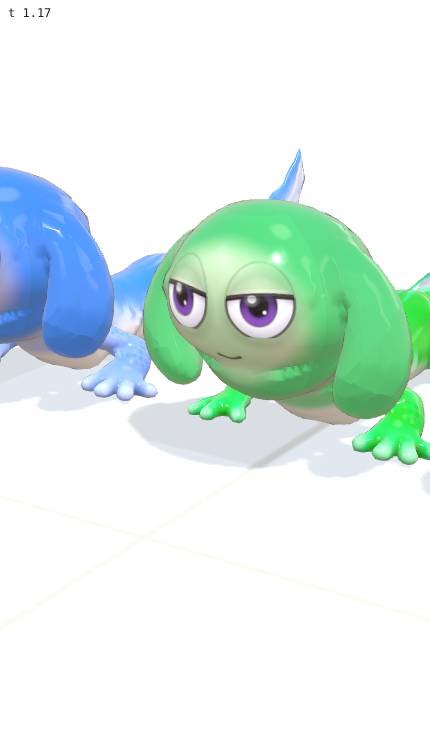
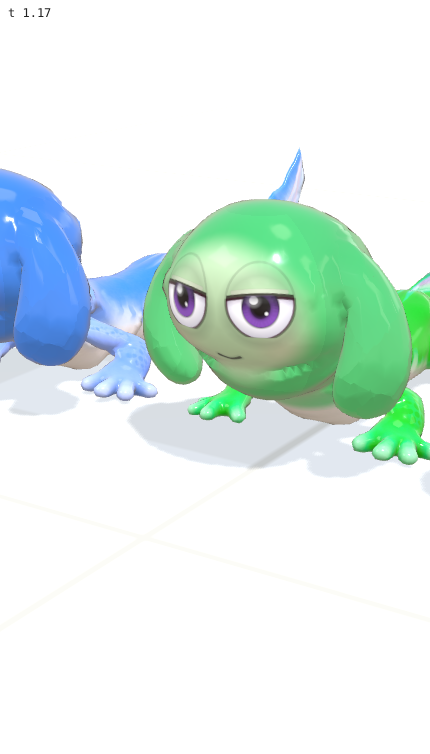
v241 work in progress: Strokes page, craft timer, lesson; the agent's neck, chest, toon and idle-eyes pass staged
Claude-Session: https://claude.ai/code/session_01MLbS6HungMVFLYm7rG9pFB

diff --git a/tools/ui178_patch.py b/tools/ui178_patch.py
@@ -1,0 +1,171 @@
+#!/usr/bin/env python3
+"""v241: Strokes. The Abilities tile opens the Strokes page once it's unlocked (rank 3): two slots, your Special Stroke (what the orb gives
+you: the Rocket, or the Giant once it's crafted) and your Skill (Swim faster). The Giant is free to craft at rank 3: a tap starts a
+20-minute craft, Skip ends it (an ad will, later). And Ol' Bloop's lesson on it: praise, then the slots, then the Giant crafted and
+equipped."""
+import subprocess, os
+S = '/tmp/claude-0/-home-user-rollmodel/5c52352e-692f-5301-ac55-ec4d2c708f3e/scratchpad'
+subprocess.run(['python3', '-I', S + '/tools/ui177_patch.py'], check=True, env=dict(os.environ))
+DST = '/home/claude/paint-the-canvas.html'
+s = open(DST).read(); n0 = len(s)
+def rep(old, new, count=1):
+    global s
+    c = s.count(old); assert c == count, f'expected {count}, found {c}: {old[:90]!r}'
+    s = s.replace(old, new)
+assert 'D.swimBoost > 1' in s, 'the swim boost is not in the adapter'
+# ---- the page's markup, after the events page
+CSS = r"""
+/* strokes: the dark page like the events, two paper slots, the equipped stroke big, the options in a rail; a craft bar with a countdown */
+.mstrokes .stwrap{position:absolute;left:0;right:0;top:calc(max(14px,env(safe-area-inset-top)) + 66px);bottom:0;z-index:1;display:grid;grid-template-columns:minmax(0,1fr);align-content:start;gap:18px;padding:4px max(18px,env(safe-area-inset-right)) calc(max(16px,env(safe-area-inset-bottom)) + 16px) max(18px,env(safe-area-inset-left));overflow-y:auto;overscroll-behavior:contain}
+.mstrokes .stsub{margin:-6px 0 0;font:700 13px/1.3 var(--font-ui);color:#B8B0C8}
+.stslot{position:relative;min-width:0;border-radius:16px;background:#F4EEE3;box-shadow:0 0 0 2.5px #171320,6px 7px 0 rgba(0,0,0,.4);animation:evin .45s cubic-bezier(.2,1.2,.35,1) both}
+.stslot:nth-child(3){animation-delay:.07s}
+.sthead{display:flex;align-items:baseline;justify-content:space-between;gap:10px;padding:10px 14px 9px;border-radius:14px 14px 0 0;background:#171320;color:#fff}
+.sthead b{font:900 17px/1 var(--font-head);font-style:italic;text-transform:uppercase;letter-spacing:.04em;color:var(--gold);text-shadow:.05em .05em 0 rgba(0,0,0,.6)}
+.sthead small{font:700 11px/1.2 var(--font-ui);color:#B8B0C8;text-align:right}
+.stnow{display:grid;grid-template-columns:72px minmax(0,1fr);gap:12px;align-items:center;padding:14px 14px 10px}
+.stnow .stic{width:72px;height:72px;display:grid;place-items:center;border-radius:18px;background:#fff;box-shadow:0 0 0 2.5px #171320,3px 3px 0 rgba(23,19,32,.25)}
+.stnow .stic svg{width:52px;height:52px}
+.stnow .stname{display:block;font:900 24px/1 var(--font-head);color:#171320;text-transform:uppercase;letter-spacing:.01em}
+.stnow .stdesc{display:block;margin-top:4px;font:600 13px/1.3 var(--font-ui);color:#4A4458}
+.stnow .ststamp{display:inline-block;margin-top:7px;padding:3px 8px 2px;border-radius:999px;background:var(--gold);color:#171320;font:900 10px/1 var(--font-head);letter-spacing:.1em;box-shadow:0 0 0 2px #171320}
+.strail{display:flex;gap:10px;padding:4px 14px 14px;overflow-x:auto;scrollbar-width:none}
+.strail::-webkit-scrollbar{display:none}
+.stopt{appearance:none;position:relative;flex:0 0 auto;display:grid;grid-template-rows:auto auto auto;justify-items:center;gap:5px;width:104px;margin:0;padding:10px 8px 9px;border:0;border-radius:14px;background:#fff;color:#171320;box-shadow:0 0 0 2.5px #171320,3px 3px 0 rgba(23,19,32,.25);cursor:pointer;font:inherit;-webkit-tap-highlight-color:transparent;transition:transform .14s cubic-bezier(.3,1.6,.5,1)}
+.stopt:active{transform:translate(1px,2px)}
+.stopt svg{width:38px;height:38px}
+.stopt .stn{font:900 13px/1 var(--font-head);text-transform:uppercase}
+.stopt .sts{display:flex;align-items:center;gap:3px;padding:3px 7px 2px;border-radius:999px;font:900 9px/1 var(--font-head);letter-spacing:.08em;background:#E9E3D6;color:#4A4458}
+.stopt .sts svg{width:9px;height:9px}
+.stopt.on{box-shadow:0 0 0 3px var(--gold),0 0 0 5.5px #171320,3px 3px 0 rgba(23,19,32,.25)}
+.stopt.on .sts{background:var(--gold);color:#171320}
+.stopt.lock svg:not(.sts svg){opacity:.45;filter:grayscale(1)}
+.stopt.lock .stn{color:#8A8396}
+.stopt.free .sts{background:#46E07A;color:#0B2A14}
+.stopt.ready .sts{background:#E3122F;color:#fff}
+.stopt.soon{background:repeating-linear-gradient(135deg,#F4EEE3 0 8px,#ECE5D8 8px 16px);box-shadow:0 0 0 2.5px rgba(23,19,32,.35);cursor:default;color:#8A8396}
+.stopt.soon .stn{color:#8A8396}
+.stcraft{display:grid;grid-template-columns:minmax(0,1fr) auto;gap:10px;align-items:center;margin:0 14px 14px;padding:10px 12px;border-radius:12px;background:#171320;color:#fff}
+.stcraft .stct{font:800 12px/1.2 var(--font-ui);color:#B8B0C8}
+.stcraft .stct b{display:block;font:900 22px/1 var(--font-head);color:#fff;font-variant-numeric:tabular-nums;letter-spacing:.02em}
+.stcraft .stbar{grid-column:1/-1;height:8px;border-radius:999px;background:#2A2436;overflow:hidden}
+.stcraft .stbar i{display:block;height:100%;width:var(--p,0%);background:linear-gradient(90deg,#F2C14E,#FFE39A);border-radius:999px;transition:width .5s linear}
+.stcraft .stskip{appearance:none;margin:0;padding:10px 16px;border:0;border-radius:999px;background:var(--gold);color:#171320;font:900 14px/1 var(--font-head);letter-spacing:.08em;text-transform:uppercase;box-shadow:0 0 0 2px #171320,0 3px 0 #171320;cursor:pointer;-webkit-tap-highlight-color:transparent}
+.stcraft .stskip:active{transform:translateY(2px);box-shadow:0 0 0 2px #171320,0 1px 0 #171320}
+.mstrokes .sttoast{position:absolute;left:50%;bottom:calc(max(16px,env(safe-area-inset-bottom)) + 18px);z-index:3;transform:translateX(-50%);padding:9px 14px;border-radius:999px;background:#171320;color:#fff;font:800 13px/1 var(--font-ui);box-shadow:0 0 0 2px var(--gold);white-space:nowrap;animation:sttoast 2.2s ease both;pointer-events:none}
+@keyframes sttoast{0%{opacity:0;transform:translate(-50%,10px)}12%,80%{opacity:1;transform:translate(-50%,0)}100%{opacity:0}}
+.plate.abil:not(.locked).fresh .abtag{animation:abpulse 1.4s ease-in-out infinite}
+@keyframes abpulse{50%{transform:translateX(-50%) rotate(4deg) scale(1.15)}}
+"""
+rep("/* abilities: violet construction paper, cut by hand,", CSS + "/* abilities: violet construction paper, cut by hand,")
+ROCKET = '<svg viewBox="0 0 64 64" aria-hidden="true"><path d="M32 4c9 6 14 18 14 32v6H18v-6C18 22 23 10 32 4z" fill="#F4EEE3" stroke="#171320" stroke-width="3.2" stroke-linejoin="round"/><path d="M18 30l-9 10 9 4zM46 30l9 10-9 4z" fill="#E3122F" stroke="#171320" stroke-width="3.2" stroke-linejoin="round"/><circle cx="32" cy="26" r="6" fill="#7CC8FF" stroke="#171320" stroke-width="3.2"/><path d="M25 44h14l-7 16z" fill="#F2C14E" stroke="#171320" stroke-width="3.2" stroke-linejoin="round"/></svg>'
+GIANT = '<svg viewBox="0 0 64 64" aria-hidden="true"><circle cx="34" cy="30" r="24" fill="#E3122F" stroke="#171320" stroke-width="3.2"/><circle cx="26" cy="27" r="4.2" fill="#fff" stroke="#171320" stroke-width="2.4"/><circle cx="42" cy="27" r="4.2" fill="#fff" stroke="#171320" stroke-width="2.4"/><circle cx="27" cy="28" r="1.8" fill="#171320"/><circle cx="43" cy="28" r="1.8" fill="#171320"/><path d="M27 38q7 5 14 0" fill="none" stroke="#171320" stroke-width="2.6" stroke-linecap="round"/><circle cx="9" cy="54" r="6" fill="#F2C14E" stroke="#171320" stroke-width="2.6"/><path d="M14 46l6-4M12 60l6 2" fill="none" stroke="#171320" stroke-width="2.4" stroke-linecap="round"/></svg>'
+SWIM = '<svg viewBox="0 0 64 64" aria-hidden="true"><path d="M6 40c6-6 12-6 18 0s12 6 18 0 12-6 18 0" fill="none" stroke="#7CC8FF" stroke-width="5" stroke-linecap="round"/><path d="M6 52c6-6 12-6 18 0s12 6 18 0 12-6 18 0" fill="none" stroke="#7CC8FF" stroke-width="5" stroke-linecap="round"/><path d="M12 22h26M30 12l12 10-12 10" fill="none" stroke="#171320" stroke-width="5" stroke-linecap="round" stroke-linejoin="round"/></svg>'
+LOCK = '<svg viewBox="0 0 24 24" aria-hidden="true"><path d="M7.5 10.5V7.8a4.5 4.5 0 0 1 9 0v2.7" fill="none" stroke="currentColor" stroke-width="3"/><rect x="4.5" y="10" width="15" height="12" rx="2.6" fill="currentColor"/></svg>'
+HTML = """
+    <div class="mevents mstrokes" id="mStrokes" hidden><div class="evwash" aria-hidden="true"><i></i></div>
+      <div class="evhead"><button class="sback" id="stBack" type="button" aria-label="Back to the lobby"><svg viewBox="0 0 24 24" aria-hidden="true"><path d="M15 4.5 7.5 12l7.5 7.5" fill="none" stroke="#fff" stroke-width="3.6" stroke-linecap="round" stroke-linejoin="round"/></svg></button><h2 id="stTitle">Strokes</h2></div>
+      <div class="stwrap" id="stWrap"><p class="stsub">Your special move and your skill. New ones open as you rank up.</p>
+        <section class="stslot" id="stSpecial" aria-labelledby="stSpecialH"><div class="sthead"><b id="stSpecialH">Special stroke</b><small>What the orb gives you</small></div><div class="stnow" id="stSpecialNow"></div><div class="strail" id="stSpecialRail" role="group" aria-label="Special strokes"></div><div class="stcraft" id="stCraft" hidden><span class="stct">Crafting the Giant<b id="stCraftT">20:00</b></span><button class="stskip" id="stSkip" type="button">Skip</button><span class="stbar"><i id="stCraftBar"></i></span></div></section>
+        <section class="stslot" id="stSkill" aria-labelledby="stSkillH"><div class="sthead"><b id="stSkillH">Skill</b><small>Always on</small></div><div class="stnow" id="stSkillNow"></div><div class="strail" id="stSkillRail" role="group" aria-label="Skills"></div></section>
+      </div>
+    </div>
+"""
+rep('    <div class="mevents" id="mEvents" hidden>', HTML + '    <div class="mevents" id="mEvents" hidden>')
+# ---- the data, the page, the craft, the lesson
+JS = r"""
+// ---------- strokes: your special stroke (what the orb gives you) and your skill; the Giant crafted free at rank 3 ----------
+const STROKE_ICON = { rocket: @ROCKET@, giant: @GIANT@, swim: @SWIM@ };
+const SPECIALS = [{ id: 'rocket', name: 'Rocket', desc: 'Blast up over the canvas, then dive down in a splash.' }, { id: 'giant', name: 'Giant', desc: 'Grow huge, paint wide, stomp rivals flat.', craft: 20 }];
+const SKILLS = [{ id: 'swim', name: 'Swim faster', desc: 'A touch more pace every time you glide.' }];
+const SWIM_BOOST = 1.08, STROKE_LOCK = @LOCK@;
+function strokesOf() { const d = store.strokes || (store.strokes = {}); if (!d.special) d.special = 'rocket'; if (!d.skill) d.skill = 'swim'; if (!Array.isArray(d.own)) d.own = ['rocket', 'swim']; for (const k of ['rocket', 'swim']) if (!d.own.includes(k)) d.own.push(k); return d; }
+const strokeOwned = id => strokesOf().own.includes(id), strokeSpecial = () => { const d = strokesOf(); return strokeOwned(d.special) ? d.special : 'rocket'; }, strokeSkill = () => strokesOf().skill;
+const strokesOpen = () => menuPage === 'strokes', strokesDue = () => repOf(store.xp || 0).lv >= ABIL_RANK; // (the page opens at rank 3)
+let stTick = 0, stToastT = 0;
+function craftLeft() { const c = strokesOf().craft; return c ? Math.max(0, c.end - Date.now()) : 0; }
+function craftTick() { const d = strokesOf(), c = d.craft; if (!c) return false; if (craftLeft() > 0) return true; d.craft = null; if (!d.own.includes(c.id)) d.own.push(c.id); d.fresh = c.id; save(); AU.fanfare && AU.fanfare(); return false; }
+function craftStart(id) { const d = strokesOf(), sp = SPECIALS.find(x => x.id === id); if (!sp || d.craft || d.own.includes(id)) return; d.craft = { id, end: Date.now() + sp.craft * 60000 }; save(); AU.pop(); buzz(10); renderStrokes(); }
+function craftSkip() { const d = strokesOf(); if (!d.craft) return; d.craft.end = Date.now(); craftTick(); AU.ui(); buzz([10, 30, 10]); renderStrokes(); stToast('The Giant is ready!'); }
+function equipSpecial(id) { const d = strokesOf(); if (!d.own.includes(id) || d.special === id) return; d.special = id; if (d.fresh === id) d.fresh = null; save(); AU.ready && AU.ready(); buzz(8); renderStrokes(); stToast(SPECIALS.find(x => x.id === id).name + ' is your special stroke'); }
+function stToast(msg) { const w = $('mStrokes'), old = w.querySelector('.sttoast'); if (old) old.remove(); const t = document.createElement('span'); t.className = 'sttoast'; t.setAttribute('role', 'status'); t.textContent = msg; w.appendChild(t); clearTimeout(stToastT); stToastT = setTimeout(() => t.remove(), 2300); }
+const mmss = ms => { const t = Math.ceil(ms / 1000), m = Math.floor(t / 60), sc = t % 60; return m + ':' + (sc < 10 ? '0' : '') + sc; };
+function renderStrokes() {
+  const d = strokesOf(); craftTick();
+  const now = (id, list, el) => { const o = list.find(x => x.id === id) || list[0]; el.innerHTML = '<span class="stic">' + STROKE_ICON[o.id] + '</span><span><span class="stname">' + o.name + '</span><span class="stdesc">' + o.desc + '</span><span class="ststamp">Equipped</span></span>'; };
+  now(strokeSpecial(), SPECIALS, $('stSpecialNow')); now(strokeSkill(), SKILLS, $('stSkillNow'));
+  const crafting = d.craft, left = craftLeft();
+  $('stSpecialRail').innerHTML = SPECIALS.map(o => { const own = d.own.includes(o.id), on = own && strokeSpecial() === o.id, cr = crafting && crafting.id === o.id, free = !own && !cr && strokesDue(), ready = own && !on && d.fresh === o.id;
+    const st = on ? 'Equipped' : cr ? 'Crafting' : ready ? 'Ready!' : own ? 'Tap to equip' : free ? 'Free to craft' : STROKE_LOCK + 'Rank ' + ABIL_RANK;
+    return '<button class="stopt' + (on ? ' on' : '') + (cr ? ' crafting' : '') + (ready ? ' ready' : '') + (free ? ' free' : '') + (!own && !cr && !free ? ' lock' : '') + '" type="button" data-st="' + o.id + '" aria-pressed="' + on + '" aria-label="' + escAttr(o.name + ', ' + st) + '">' + STROKE_ICON[o.id] + '<span class="stn">' + o.name + '</span><span class="sts">' + st + '</span></button>'; }).join('')
+    + '<span class="stopt soon" aria-hidden="true"><svg viewBox="0 0 64 64"><circle cx="32" cy="32" r="20" fill="none" stroke="#8A8396" stroke-width="4" stroke-dasharray="7 7"/></svg><span class="stn">More soon</span><span class="sts">Rank up</span></span>';
+  $('stSkillRail').innerHTML = SKILLS.map(o => '<button class="stopt on" type="button" data-sk="' + o.id + '" aria-pressed="true" aria-label="' + escAttr(o.name + ', equipped') + '">' + STROKE_ICON[o.id] + '<span class="stn">' + o.name + '</span><span class="sts">Equipped</span></button>').join('')
+    + '<span class="stopt soon" aria-hidden="true"><svg viewBox="0 0 64 64"><circle cx="32" cy="32" r="20" fill="none" stroke="#8A8396" stroke-width="4" stroke-dasharray="7 7"/></svg><span class="stn">More soon</span><span class="sts">Rank up</span></span>';
+  const cEl = $('stCraft'); cEl.hidden = !crafting; if (crafting) { const sp = SPECIALS.find(x => x.id === crafting.id), tot = sp.craft * 60000; $('stCraftT').textContent = mmss(left); $('stCraftBar').style.setProperty('--p', (100 * (1 - left / tot)).toFixed(1) + '%'); }
+  paintAbil();
+}
+function strokesFrame() { if (!strokesOpen()) return; const d = strokesOf(); if (d.craft) { if (!craftTick()) { renderStrokes(); stToast('The Giant is ready!'); } else { $('stCraftT').textContent = mmss(craftLeft()); const sp = SPECIALS.find(x => x.id === d.craft.id); $('stCraftBar').style.setProperty('--p', (100 * (1 - craftLeft() / (sp.craft * 60000))).toFixed(1) + '%'); } } }
+function openStrokes() {
+  if (state !== 'menu' || building || lookOpen || shopOpen || strokesOpen()) return;
+  if (menuPage === 'worlds') { closeSeason(); $('mWorld').hidden = true; } if (menuPage === 'events') closeEvents();
+  menuPage = 'strokes'; menu.dataset.page = 'strokes'; $('mHome').hidden = true; $('mStrokes').hidden = false; document.body.classList.add('evon'); closeSide(true); renderStrokes();
+  for (const c of $('mStrokes').querySelectorAll('.stslot')) { c.style.animation = 'none'; void c.offsetWidth; c.style.animation = ''; }
+  clearInterval(stTick); stTick = setInterval(strokesFrame, 500); setTimeout(() => $('stBack').focus({ preventScroll: true }), 40);
+}
+function closeStrokes() { if (!strokesOpen()) return; clearInterval(stTick); $('mStrokes').hidden = true; document.body.classList.remove('evon'); menuPage = 'home'; menu.dataset.page = 'home'; $('mHome').hidden = false; paintAbil(); renderLobbyUI && renderLobbyUI(); setTimeout(() => $('abilBtn').focus({ preventScroll: true }), 40); }
+$('stBack').addEventListener('click', () => { AU.init(); AU.ui(); closeStrokes(); });
+$('stSkip').addEventListener('click', () => { AU.init(); craftSkip(); });
+$('stSpecialRail').addEventListener('click', e => { const b = e.target.closest('.stopt[data-st]'); if (!b) return; AU.init(); const id = b.dataset.st, d = strokesOf();
+  if (d.own.includes(id)) { if (strokeSpecial() !== id) equipSpecial(id); else AU.ui(); return; }
+  if (d.craft) { AU.nope(); stToast('One craft at a time'); return; }
+  if (strokesDue()) craftStart(id); else { AU.nope(); stToast('Reach rank ' + ABIL_RANK + ' to craft the ' + id); } });
+$('stSkillRail').addEventListener('click', e => { if (e.target.closest('.stopt[data-sk]')) { AU.init(); AU.ui(); } });
+""".replace("@ROCKET@", repr(ROCKET)).replace("@GIANT@", repr(GIANT)).replace("@SWIM@", repr(SWIM)).replace("@LOCK@", repr(LOCK))
+# (the icons as JS strings: python repr gives single quotes, which is fine JS)
+rep("// abilities: on the rail, locked until rank 3; past that, coming soon (a tap says which)", JS + "\n// abilities: on the rail, locked until rank 3; past that, the Strokes page")
+# ---- the tile: unlocked, it opens the page (and pulses while a fresh Giant waits)
+rep("function paintAbil() { const b = $('abilBtn'), on = repOf(store.xp || 0).lv >= ABIL_RANK; b.classList.toggle('locked', !on); $('abilTag').innerHTML = on ? 'Soon' : ABIL_LOCK + 'Rank ' + ABIL_RANK; b.setAttribute('aria-label', on ? 'Abilities, coming soon' : 'Abilities, locked until rank ' + ABIL_RANK); }",
+    "function paintAbil() { const b = $('abilBtn'), on = repOf(store.xp || 0).lv >= ABIL_RANK, d = strokesOf(), fresh = on && (!!d.fresh || (!!d.craft && craftLeft() <= 0)); b.classList.toggle('locked', !on); b.classList.toggle('fresh', fresh); $('abilTag').innerHTML = on ? (fresh ? 'New!' : 'Strokes') : ABIL_LOCK + 'Rank ' + ABIL_RANK; b.setAttribute('aria-label', on ? 'Strokes: your special stroke and your skill' : 'Abilities, locked until rank ' + ABIL_RANK); }")
+rep("$('abilBtn').addEventListener('click', () => { AU.init(); AU.nope(); const b = $('abilBtn'), rail = b.parentElement, on = !b.classList.contains('locked'), old = b.querySelector('.abtoast'); if (old) old.remove();\n  const t = document.createElement('span'); t.className = 'abtoast'; t.setAttribute('role', 'status'); t.textContent = on ? 'Abilities are coming soon' : 'Reach rank ' + ABIL_RANK + ' to unlock Abilities';",
+    "$('abilBtn').addEventListener('click', () => { AU.init(); const b = $('abilBtn'), rail = b.parentElement, on = !b.classList.contains('locked'), old = b.querySelector('.abtoast'); if (old) old.remove(); if (on) { AU.ui(); openStrokes(); return; } AU.nope();\n  const t = document.createElement('span'); t.className = 'abtoast'; t.setAttribute('role', 'status'); t.textContent = 'Reach rank ' + ABIL_RANK + ' to unlock Strokes';")
+rep('<span>Abilities</span><b class="abtag" id="abilTag" aria-hidden="true"></b></button>', '<span>Strokes</span><b class="abtag" id="abilTag" aria-hidden="true"></b></button>')
+# ---- the orb gives you your special stroke (rivals still get either); the swim skill's pace
+rep("const gift = tut ? 'rocket' : window.__orbKind || ['giant', 'rocket'][(Math.random() * 2) | 0];",
+    "const gift = tut ? 'rocket' : window.__orbKind || (D === P ? strokeSpecial() : ['giant', 'rocket'][(Math.random() * 2) | 0]); /* (yours: the special stroke you equipped) */")
+rep("  for (const D of ACTIVE) { D.eyeSink = D.eyeShut = D.eyeWide = 0; D.flowT = 1; D.flowK = 0; }",
+    "  for (const D of ACTIVE) { D.eyeSink = D.eyeShut = D.eyeWide = 0; D.flowT = 1; D.flowK = 0; D.swimBoost = D === P && strokeSkill() === 'swim' ? SWIM_BOOST : 1; }")
+# ---- the lesson: at rank 3, praise, then the page, then the Giant crafted and equipped
+rep("function tutWelcomeDone(open) {", r"""// strokes: once you're rank 3 (and the first lessons are done), Ol' Bloop stops you in the lobby: look how far you've come; then let's
+// learn some more: the Strokes page, the Giant crafted (Skip, this one's on him) and equipped
+function tutStrokesDue() { return tutPh() === 'done' && !store.tut.strokes && strokesDue() && state === 'menu' && menuPage === 'home' && !lookOpen && !shopOpen && !building && !irisBusy && setModal.hidden && nameModal.hidden && howModal.hidden && $('tutGo').hidden && !vic; }
+function tutStrokesCard(n) {
+  const el = $('tutGo'); el.dataset.mode = 'strokes' + n;
+  if (n === 1) tutCardText(['Look at <em>you</em>, rookie!', 'Rank ' + repOf(store.xp || 0).lv + ' already. You’ve come a long way since that first canvas, and I’ve been watching.', 'Aw, thanks', '']);
+  else tutCardText(['Let’s learn <em>some more</em>', 'And get even better. You’ve unlocked Strokes: your special move, and a skill. Come see.', 'Show me', '']);
+  if (el.hidden) { el.hidden = false; el.classList.remove('on'); void el.offsetWidth; el.classList.add('on'); } tutCardCoach(); if (n === 1) { AU.fanfare && AU.fanfare(); AU.bloop(0.55); menu.classList.add('tutoring'); } else AU.bloop(0.5); setTimeout(() => $('tgGo').focus({ preventScroll: true }), 60);
+}
+function tutStrokesGo() { const el = $('tutGo'), m = el.dataset.mode; if (m === 'strokes1') return tutStrokesCard(2); el.classList.remove('on'); el.hidden = true; coachCorner(null); el.dataset.mode = ''; store.tut.strokes = 'on'; tutSet('strokes'); setTimeout(() => openStrokes(), 250); }
+function tutStrokesEnd() { tutSDone = 0; store.tut.strokes = 1; tutSet('done'); save(); tutHide(); menu.classList.remove('tutoring'); }
+function tutStrokesTick() {
+  if (state !== 'menu' || building || irisBusy || !setModal.hidden || !nameModal.hidden || !howModal.hidden) return tutHide();
+  if (shopOpen) return tutShow('Back to the lobby', 'shopBack', 'back'); if (lookOpen) return tutShow('Back to the lobby', 'lkDone', 'back');
+  if (menuPage === 'worlds') return tutShow('Back to the lobby', 'worldBack', 'back'); if (menuPage === 'events') return tutShow('Back to the lobby', 'evBack', 'back');
+  if (!strokesOpen()) return tutShow('Tap Strokes to open it', 'abilBtn', 'sOpen');
+  const d = strokesOf(), giant = () => $('stSpecialRail').querySelector('.stopt[data-st="giant"]');
+  if (!d.own.includes('giant')) { if (d.craft) return tutShow('Crafting takes 20 minutes. Tap Skip, this one’s on me', 'stSkip', 'sSkip'); return tutShow('Your Special Stroke is what the orb gives you. The Giant is yours now: tap it to craft it', giant, 'sGiant'); }
+  if (strokeSpecial() !== 'giant') return tutShow('It’s ready! Tap the Giant to make it your special stroke', giant, 'sEquip');
+  if (!tutSDone) { tutSDone = performance.now(); tutShow('Giant it is! Grab the orb in a match and go big. Your Skill is below: Swim faster is on', null, 'sDone', false, true, null, true); }
+  else if (performance.now() - tutSDone > 5200) tutStrokesEnd();
+}
+function tutWelcomeDone(open) {""")
+rep("$('tgGo').addEventListener('click', () => { AU.init(); AU.ui(); if ($('tutGo').dataset.mode === 'welcome') tutWelcomeDone(true); else tutCard(false); });",
+    "$('tgGo').addEventListener('click', () => { AU.init(); AU.ui(); const m = $('tutGo').dataset.mode; if (m === 'welcome') tutWelcomeDone(true); else if (m === 'strokes1' || m === 'strokes2') tutStrokesGo(); else tutCard(false); });")
+rep("  if (tutPh() === 'done') { if (menu.classList.contains('tutoring')) menu.classList.remove('tutoring');",
+    "  if (tutPh() === 'done' && tutStrokesDue()) { if (!tutStrokesAt) tutStrokesAt = performance.now(); if (performance.now() - tutStrokesAt > 1200) tutStrokesCard(1); return; } /* (a beat of the lobby, then the praise) */\n  if (tutPh() === 'done') { if (menu.classList.contains('tutoring')) menu.classList.remove('tutoring');")
+rep("const tutBootEl = $('boot'), tutOrientEl = $('orient');", "const tutBootEl = $('boot'), tutOrientEl = $('orient'); let tutStrokesAt = 0, tutSDone = 0;")
+rep("  if (ph !== 'shop' && ph !== 'locker' && ph !== 'vote') {", "  if (ph === 'strokes') { tutStrokesTick(); return; }\n  if (ph !== 'shop' && ph !== 'locker' && ph !== 'vote') {")
+# the page like the shop and the locker: no dim, the control ringed
+rep("  { const nb = shopOpen || lookOpen; if (tutDim.classList.contains('noblur') !== nb)", "  { const nb = shopOpen || lookOpen || strokesOpen(); if (tutDim.classList.contains('noblur') !== nb)")
+rep('<p class="ver">Version 240</p>', '<p class="ver">Version 241</p>')
+open(DST, 'w').write(s)
+print('ui178 ok', n0, '->', len(s))

diff --git a/tools/strokeslesson.py b/tools/strokeslesson.py
@@ -1,0 +1,32 @@
+"""Ol' Bloop's Strokes lesson: rank 3, first lessons done: the praise card, the second card, then the page with its tips through the craft,
+the skip and the equip. usage: strokeslesson.py <page> <tag>"""
+import asyncio, sys
+from playwright.async_api import async_playwright
+from PIL import Image
+WS = '/tmp/claude-0/-home-user-rollmodel/5c52352e-692f-5301-ac55-ec4d2c708f3e/scratchpad/ws'
+PAGE, TAG = sys.argv[1], sys.argv[2]
+async def main():
+    async with async_playwright() as p:
+        b = await p.chromium.launch(args=['--use-gl=swiftshader', '--enable-webgl', '--ignore-gpu-blocklist'])
+        ctx = await b.new_context(viewport={'width': 390, 'height': 844}, device_scale_factor=1, has_touch=True, is_mobile=True)
+        await ctx.add_init_script("window.__tut = true; try { localStorage.setItem('paint-world-red.v1', JSON.stringify({ orient:'port', name:'Dusk', seen:{ look: 1 }, drops: 120, runs: 9, xp: 900, owned: [], tut: { ph: 'done' } })); } catch (e) {}")
+        pg = await ctx.new_page(); errs = []; pg.on('pageerror', lambda e: errs.append(str(e)[:200])); ev = pg.evaluate
+        await pg.goto('http://localhost:8765/' + PAGE, timeout=240000); await pg.wait_for_function('typeof __T === "object"', timeout=240000, polling=100); await pg.wait_for_timeout(5000)
+        fs = []; shot = lambda n: f'{WS}/ui/sl_{TAG}_{n}.png'
+        f = shot('1praise'); await pg.screenshot(path=f); fs.append(f); print('card', await ev("document.getElementById('tutGo').hidden + ' ' + document.getElementById('tgTitle').textContent"))
+        await ev("document.getElementById('tgGo').click()"); await pg.wait_for_timeout(900)
+        f = shot('2learn'); await pg.screenshot(path=f); fs.append(f)
+        await ev("document.getElementById('tgGo').click()"); await pg.wait_for_timeout(2200)
+        f = shot('3giant'); await pg.screenshot(path=f); fs.append(f); print('tip', await ev("document.getElementById('tutText').textContent"))
+        await ev("document.querySelector('#stSpecialRail .stopt[data-st=\"giant\"]').click()"); await pg.wait_for_timeout(1500)
+        f = shot('4skip'); await pg.screenshot(path=f); fs.append(f); print('tip', await ev("document.getElementById('tutText').textContent"))
+        await ev("document.getElementById('stSkip').click()"); await pg.wait_for_timeout(1500)
+        f = shot('5equip'); await pg.screenshot(path=f); fs.append(f); print('tip', await ev("document.getElementById('tutText').textContent"))
+        await ev("document.querySelector('#stSpecialRail .stopt[data-st=\"giant\"]').click()"); await pg.wait_for_timeout(1500)
+        f = shot('6done'); await pg.screenshot(path=f); fs.append(f); print('tip', await ev("document.getElementById('tutText').textContent"))
+        await pg.wait_for_timeout(6000); print('after', await ev("JSON.stringify(JSON.parse(localStorage.getItem('paint-world-red.v1')).tut) + ' tip hidden ' + document.getElementById('tut').hidden"))
+        print('errors', errs[:3]); await b.close()
+    ims = [Image.open(f) for f in fs]; H = max(im.height for im in ims); sh = Image.new('RGB', (sum(im.width for im in ims) + 10 * len(ims), H), 'white'); x = 0
+    for im in ims: sh.paste(im, (x, 0)); x += im.width + 10
+    sh.resize((sh.width * 3 // 4, sh.height * 3 // 4)).save(f'{WS}/ui/sl_{TAG}_sheet.png'); print(sh.size)
+asyncio.run(main())

diff --git a/tools/strokes241.py b/tools/strokes241.py
@@ -1,0 +1,32 @@
+"""The Strokes page: open at rank 3, craft the Giant, skip, equip; a shot of each state. usage: strokes241.py <page> <tag>"""
+import asyncio, sys
+from playwright.async_api import async_playwright
+from PIL import Image
+WS = '/tmp/claude-0/-home-user-rollmodel/5c52352e-692f-5301-ac55-ec4d2c708f3e/scratchpad/ws'
+PAGE, TAG = sys.argv[1], sys.argv[2]
+async def main():
+    async with async_playwright() as p:
+        b = await p.chromium.launch(args=['--use-gl=swiftshader', '--enable-webgl', '--ignore-gpu-blocklist'])
+        ctx = await b.new_context(viewport={'width': 390, 'height': 844}, device_scale_factor=1, has_touch=True, is_mobile=True)
+        await ctx.add_init_script("try { localStorage.setItem('paint-world-red.v1', JSON.stringify({ orient:'port', name:'Dusk', seen:{ look: 1 }, drops: 120, runs: 9, xp: 900, owned: [], tut: { ph: 'done', strokes: 1 } })); } catch (e) {}")
+        pg = await ctx.new_page(); errs = []; pg.on('pageerror', lambda e: errs.append(str(e)[:200])); ev = pg.evaluate
+        await pg.goto('http://localhost:8765/' + PAGE, timeout=240000); await pg.wait_for_function('typeof __T === "object"', timeout=240000, polling=100); await pg.wait_for_timeout(4000)
+        print('rank', await ev("document.getElementById('abilTag').textContent + ' / ' + document.getElementById('abilBtn').className"))
+        fs = []
+        f = f'{WS}/ui/st_{TAG}_0lobby.png'; await pg.screenshot(path=f, clip={'x': 0, 'y': 0, 'width': 390, 'height': 330}); fs.append(f)
+        await ev("document.getElementById('abilBtn').click()"); await pg.wait_for_timeout(1500)
+        f = f'{WS}/ui/st_{TAG}_1page.png'; await pg.screenshot(path=f); fs.append(f)
+        await ev("document.querySelector('#stSpecialRail .stopt[data-st=\"giant\"]').click()"); await pg.wait_for_timeout(1500)
+        f = f'{WS}/ui/st_{TAG}_2craft.png'; await pg.screenshot(path=f); fs.append(f)
+        await ev("document.getElementById('stSkip').click()"); await pg.wait_for_timeout(1200)
+        f = f'{WS}/ui/st_{TAG}_3ready.png'; await pg.screenshot(path=f); fs.append(f)
+        await ev("document.querySelector('#stSpecialRail .stopt[data-st=\"giant\"]').click()"); await pg.wait_for_timeout(1200)
+        f = f'{WS}/ui/st_{TAG}_4equip.png'; await pg.screenshot(path=f); fs.append(f)
+        print('store', await ev("JSON.stringify(JSON.parse(localStorage.getItem('paint-world-red.v1')).strokes)"))
+        await ev("document.getElementById('stBack').click()"); await pg.wait_for_timeout(1000)
+        f = f'{WS}/ui/st_{TAG}_5back.png'; await pg.screenshot(path=f, clip={'x': 0, 'y': 0, 'width': 390, 'height': 330}); fs.append(f)
+        print('errors', errs[:3]); await b.close()
+    ims = [Image.open(f) for f in fs]; H = max(im.height for im in ims); sh = Image.new('RGB', (sum(im.width for im in ims) + 10 * len(ims), H), 'white'); x = 0
+    for im in ims: sh.paste(im, (x, 0)); x += im.width + 10
+    sh.save(f'{WS}/ui/st_{TAG}_sheet.png'); print(sh.size)
+asyncio.run(main())

diff --git a/tools/ui179_patch.py b/tools/ui179_patch.py
@@ -1,0 +1,17 @@
+#!/usr/bin/env python3
+"""v241: the axolotl's neck and chest reworked (the head ball fillets into a fuller neck out of a fuller chest, no ledge or ring), fuller
+upper arms and thighs, a soft toon ramp on the shading (the dark side lifted, a warm fill, a crisper small highlight; the material kept),
+and calmer idle eyes (glances 2.5 to 6 s apart, eased, smaller darts). The slime-head agent's v10c. The mesh ships as axo-pack-241.txt."""
+import subprocess, os
+S = '/tmp/claude-0/-home-user-rollmodel/5c52352e-692f-5301-ac55-ec4d2c708f3e/scratchpad'
+subprocess.run(['python3', '-I', S + '/tools/ui178_patch.py'], check=True, env=dict(os.environ, AXO_BASE=os.environ.get('AXO_BASE', S + '/tools/assets/axo_base_v241.js')))
+DST = '/home/claude/paint-the-canvas.html'
+s = open(DST).read(); n0 = len(s)
+def rep(old, new, count=1):
+    global s
+    c = s.count(old); assert c == count, f'expected {count}, found {c}: {old[:90]!r}'
+    s = s.replace(old, new)
+assert 'uToon' in s and '0.57 * H.r' in s, 'the v241 runtime or the neck anchor is not in the build'
+rep("AXOC.load(window.AXO_PACK || 'axo-pack-239.txt')", "AXOC.load(window.AXO_PACK || 'axo-pack-241.txt')")
+open(DST, 'w').write(s)
+print('ui179 ok', n0, '->', len(s))
